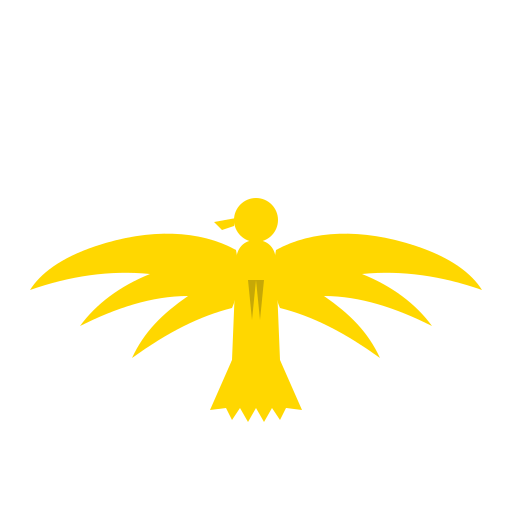
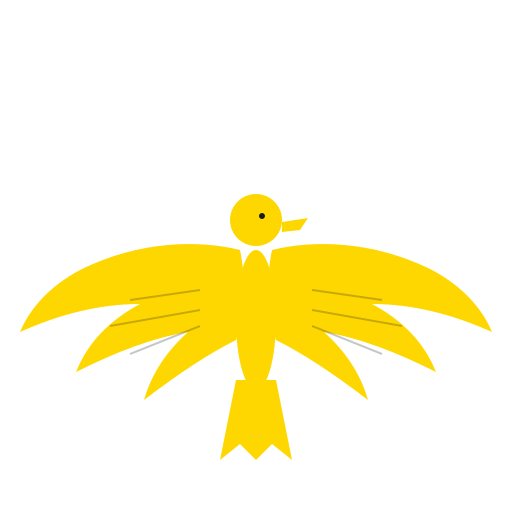
fix(hat): swap back decals, color snapback strap, redraw feathers/eagle
- Swap eagle and panda x-positions: panda on viewer's right, eagle on viewer's left in back view
- Redraw eagle silhouette: clear head, beak, body, wings, forked tail
- Redraw crossed feathers as a clean X with binding wrap
- Treat strapAdjust meshes as fabric so the snapback strap takes hatColor
  (black hat now has a black strap instead of bare white plastic)

Changed region(s): [[0.0312, 0.375, 0.9688, 0.9062]]

diff --git a/src/types/hat.ts b/src/types/hat.ts
@@ -87,11 +87,12 @@ const FRONT_TEXT_DECAL: Decal = {
 };
 
 // Back: eagle (viewer-left), crossed feathers (center, above snapback), panda (viewer-right).
+// In back-of-hat camera view, world +X appears on viewer's LEFT, world -X on viewer's RIGHT.
 const BACK_EAGLE_DECAL: Decal = {
   id: 'back-eagle',
   type: 'image',
   url: `${BASE_URL}images/eagle_decal.png`,
-  position: [-30, 30, -88],
+  position: [30, 30, -88],
   rotation: [0, Math.PI, 0],
   scale: [34, 34, 50],
   normal: [0, 0, -1],
@@ -104,9 +105,9 @@ const BACK_FEATHERS_DECAL: Decal = {
   id: 'back-crossed-feathers',
   type: 'image',
   url: `${BASE_URL}images/feathers_decal.png`,
-  position: [0, 44, -88],
+  position: [0, 46, -88],
   rotation: [0, Math.PI, 0],
-  scale: [30, 30, 50],
+  scale: [36, 40, 50],
   normal: [0, 0, -1],
   spin: Math.PI,
   zone: 'back',
@@ -117,7 +118,7 @@ const BACK_PANDA_DECAL: Decal = {
   id: 'back-panda',
   type: 'image',
   url: `${BASE_URL}images/panda_decal.png`,
-  position: [30, 30, -88],
+  position: [-30, 30, -88],
   rotation: [0, Math.PI, 0],
   scale: [34, 34, 50],
   normal: [0, 0, -1],

diff --git a/src/components/HatModel.tsx b/src/components/HatModel.tsx
@@ -521,7 +521,9 @@ export default function HatModel({
           fabricHint.includes('cap') ||
           fabricHint.includes('visor') ||
           fabricHint.includes('liner') ||
-          fabricHint.includes('fabric');
+          fabricHint.includes('fabric') ||
+          fabricHint.includes('strap') ||
+          fabricHint.includes('adjust');
 
         if (isFabric) {
           const mat = original.clone();
